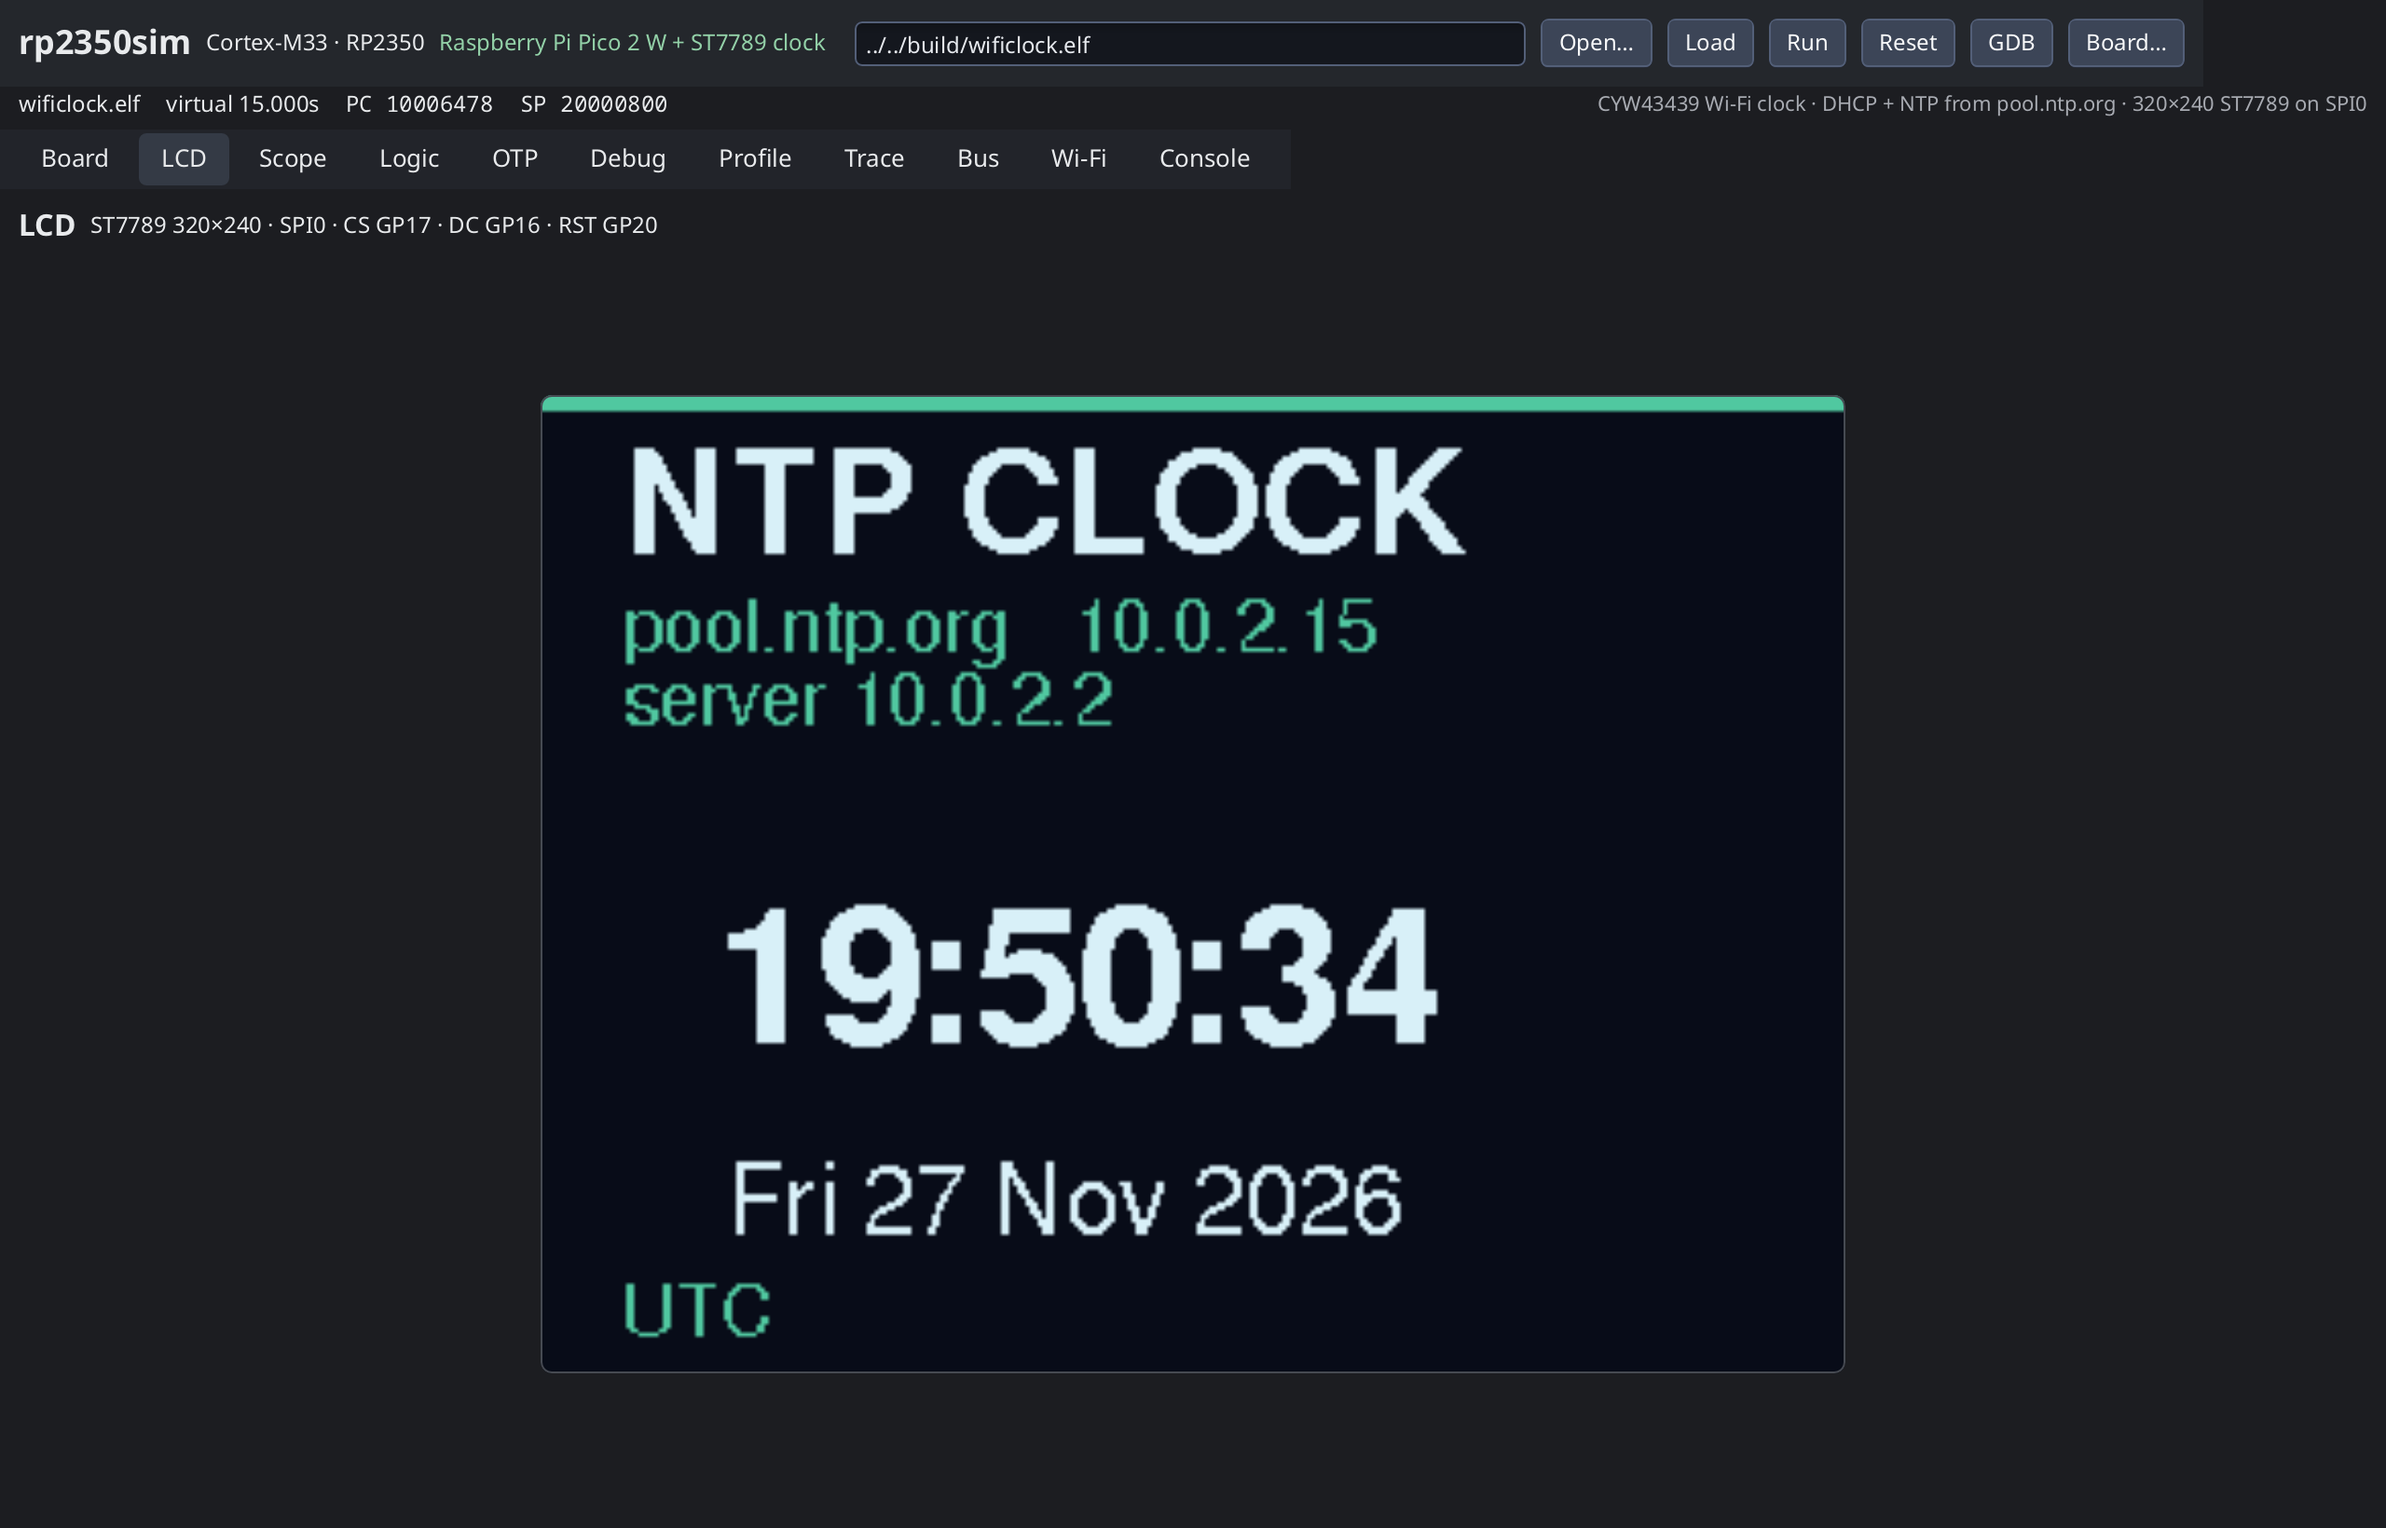
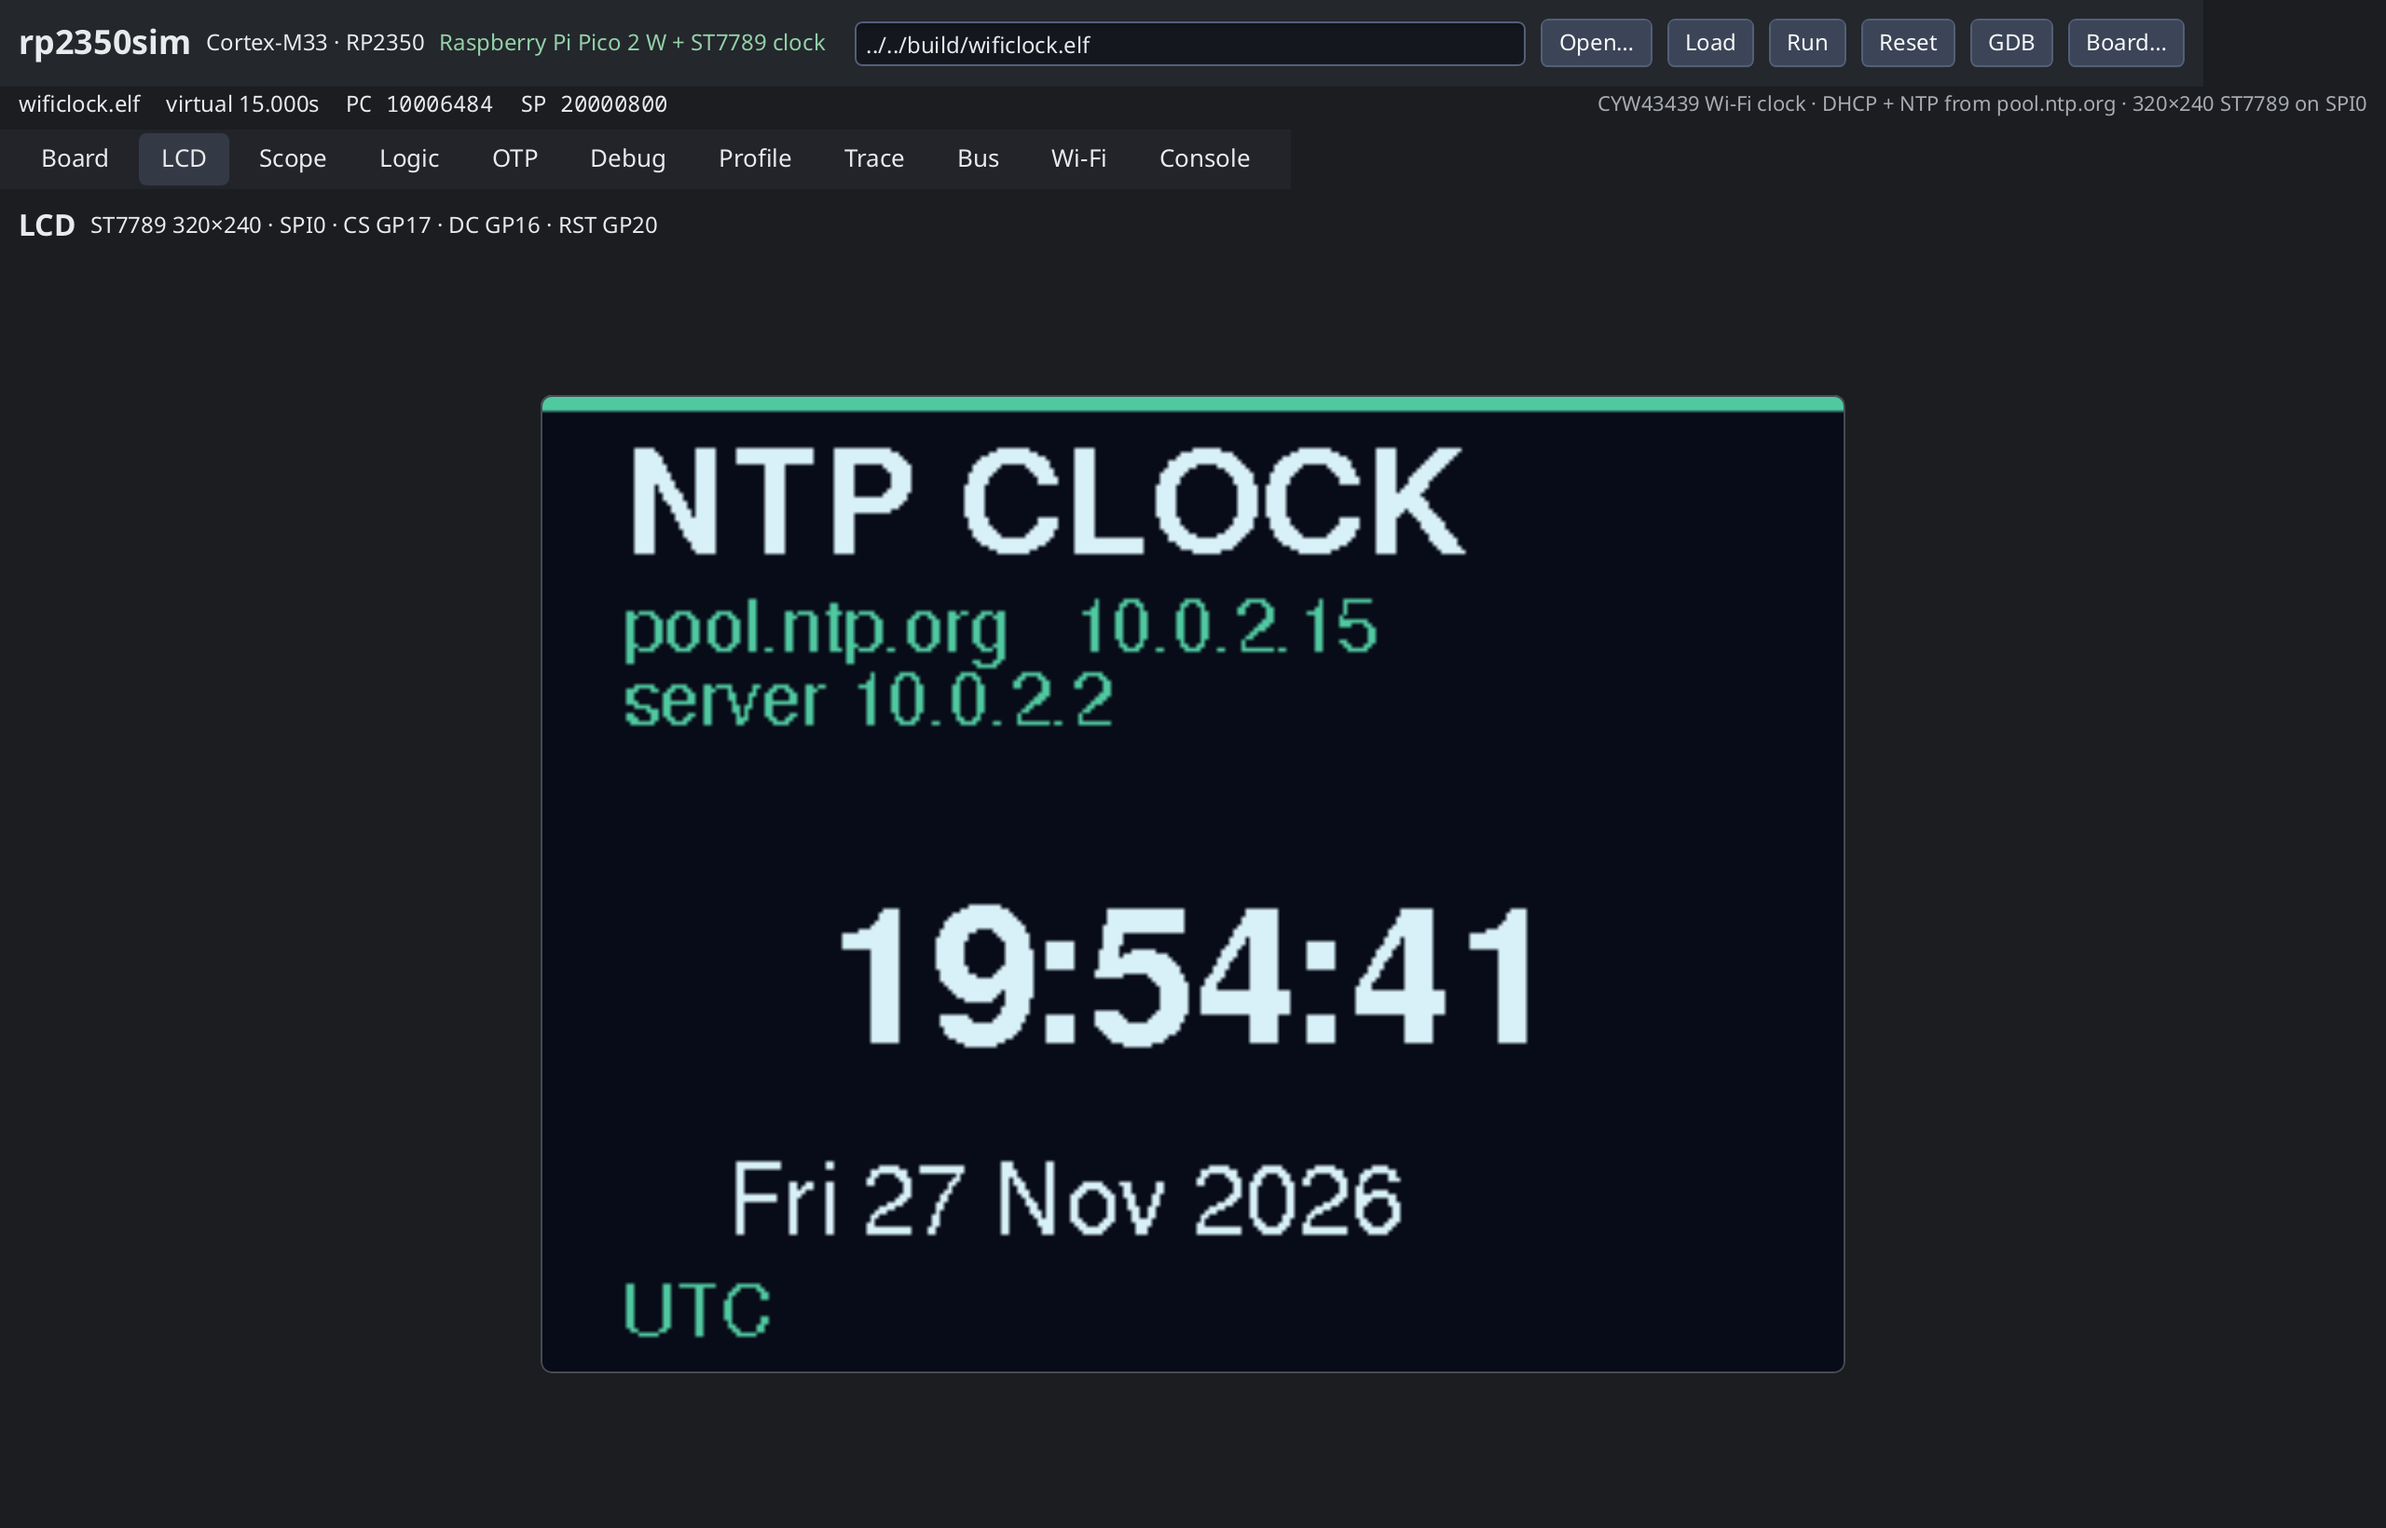
ui: reduce the Wi-Fi clock redraw cost

Changed region(s): [[0.2812, 0.5909, 0.6562, 0.6841]]

diff --git a/firmware/wificlock/main.go b/firmware/wificlock/main.go
@@ -116,16 +116,11 @@ func main() {
 	runtime.AdjustTimeOffset(int64(offset))
 	println("wificlock: ntp", time.Now().UTC().Format(time.RFC3339), "offset", offset.String())
 	drawStatic(&display, ip, addrs[0].String())
+	updateClock(&display, time.Now().UTC())
 
-	last := ""
 	for {
-		now := time.Now().UTC()
-		stamp := now.Format("15:04:05")
-		if stamp != last {
-			last = stamp
-			drawClock(&display, now)
-		}
-		time.Sleep(200 * time.Millisecond)
+		updateClock(&display, time.Now().UTC())
+		time.Sleep(250 * time.Millisecond)
 	}
 }
 
@@ -146,6 +141,17 @@ func drawBoot(d *st7789.Device, msg string) {
 	tinyfont.WriteLine(d, &freesans.Regular9pt7b, 20, 200, ntpHost, fg)
 }
 
+var (
+	timeCells = [...]struct {
+		x, w int16
+	}{
+		{70, 26}, {96, 26}, {122, 12}, {134, 26},
+		{160, 26}, {186, 12}, {198, 26}, {224, 26},
+	}
+	prevTime string
+	prevDate string
+)
+
 func drawStatic(d *st7789.Device, ip, server string) {
 	_ = d.FillRectangle(0, 0, 320, 240, bg)
 	_ = d.FillRectangle(0, 0, 320, 4, accent)
@@ -155,13 +161,29 @@ func drawStatic(d *st7789.Device, ip, server string) {
 	tinyfont.WriteLine(d, &freesans.Regular9pt7b, 20, 230, "UTC", accent)
 }
 
-func drawClock(d *st7789.Device, now time.Time) {
-	paint(d, 8, 98, 304, 72, bg, func(t *tile) {
-		tinyfont.WriteLine(t, &freesans.Bold24pt7b, 42, 158, now.Format("15:04:05"), fg)
+// drawTimeChar rewrites one character cell, leaving the rest of the panel and
+// its background untouched. Only the digits that changed are sent each tick.
+func drawTimeChar(d *st7789.Device, i int, r rune) {
+	c := timeCells[i]
+	paint(d, c.x, 116, c.w, 46, bg, func(t *tile) {
+		tinyfont.DrawChar(t, &freesans.Bold24pt7b, c.x, 158, r, fg)
 	})
-	paint(d, 8, 178, 304, 32, bg, func(t *tile) {
-		tinyfont.WriteLine(t, &freesans.Regular12pt7b, 46, 205, now.Format("Mon 02 Jan 2006"), fg)
-	})
+}
+
+func updateClock(d *st7789.Device, now time.Time) {
+	stamp := now.Format("15:04:05")
+	for i := 0; i < len(stamp) && i < len(timeCells); i++ {
+		if i >= len(prevTime) || prevTime[i] != stamp[i] {
+			drawTimeChar(d, i, rune(stamp[i]))
+		}
+	}
+	prevTime = stamp
+	if date := now.Format("Mon 02 Jan 2006"); date != prevDate {
+		paint(d, 8, 176, 304, 34, bg, func(t *tile) {
+			tinyfont.WriteLine(t, &freesans.Regular12pt7b, 46, 205, date, fg)
+		})
+		prevDate = date
+	}
 }
 
 func fail(d *st7789.Device, what string, err error) {

diff --git a/cmd/simui/main.go b/cmd/simui/main.go
@@ -47,6 +47,7 @@ var (
 	scopeAnalyzer      scopeSpectrum
 	triggerKind        string
 	triggerPause       bool
+	frameEveryOverride time.Duration
 	logicSaveMsg       string
 	logicSaveErr       bool
 	cywSaveMsg         string
@@ -159,6 +160,9 @@ func RootView() {
 	if frameTab != activeTab {
 		frameTab = activeTab
 		every := webFrameInterval(activeTab)
+		if frameEveryOverride > 0 {
+			every = frameEveryOverride
+		}
 		emu.SetFrameInterval(every)
 		webSetFrameInterval(every)
 	}
@@ -3768,6 +3772,7 @@ func main() {
 	otpPath := flag.String("otp", "", "seed OTP rows from this JSON file, overriding the board's otp.file")
 	tabName := flag.String("tab", "board", "tab to show: board, lcd, dvi, eth/wifi, ws, sensors, scope, logic, audio, midi, otp, bus, debug, profile, hid, ble, bootsel, console")
 	turboFlag := flag.Bool("turbo", false, "run as fast as the host allows instead of pacing virtual time to real time")
+	fpsFlag := flag.Int("fps", 0, "UI rebuild rate in frames per second (0 follows the active tab)")
 	debugBreak := flag.String("break", "", "add a debugger breakpoint (address or symbol) after loading")
 	gdbFlag := flag.String("gdb", "", "start the GDB remote server on this address (e.g. 127.0.0.1:3333)")
 	debugTab := flag.String("debug-tab", "registers", "debug inspector tab: registers, memory, variables")
@@ -3779,6 +3784,9 @@ func main() {
 	showVer := flag.Bool("version", false, "print the version and exit")
 	flag.Parse()
 	busAutoConnect = *busConnect
+	if *fpsFlag > 0 {
+		frameEveryOverride = time.Second / time.Duration(*fpsFlag)
+	}
 	emu.SetTurbo(*turboFlag)
 	if webTurboDefault() {
 		emu.SetTurbo(true)

diff --git a/cmd/simui/emu.go b/cmd/simui/emu.go
@@ -2821,7 +2821,6 @@ func (e *Emu) loop() {
 	// snapshot. Asking once per chunk (hundreds of times a second) starves
 	// stepping without making the picture smoother, so cap repaints at
 	// display rate. The browser page shim paces its own rAF loop by tab.
-	const frameInterval = 16 * time.Millisecond
 	var frameAt time.Time
 	var lastYield time.Time
 	for {
@@ -2838,6 +2837,7 @@ func (e *Emu) loop() {
 		stopped := e.chip != nil && e.chip.Debug != nil && e.chip.Debug.Stopped
 		running := e.running && e.runnableLocked() && !e.chip.Halted && !stopped
 		frameEvery := e.frameEvery
+		frameInterval := max(16*time.Millisecond, frameEvery)
 		boots := e.lastBoots
 		var sleepFor time.Duration
 		if running {

diff --git a/docs/ui.md b/docs/ui.md
@@ -47,6 +47,7 @@ Startup flags:
 | `--width`, `--height` | window size in points |
 | `--run SECONDS` | advance virtual time at startup; a live window keeps running, `--png` snapshots stay frozen |
 | `--turbo` | run as fast as the host allows instead of pacing virtual time to real time |
+| `--fps N` | UI rebuild rate in frames per second; `0` follows the active tab (e.g. `4` for a clock) |
 | `--paused` | load the firmware but do not execute until Run |
 | `--png PATH` | render one settled frame and exit (headless) |
 | `--flash PATH` | raw flash backing image; loaded before firmware, and self-updates are written back here |
